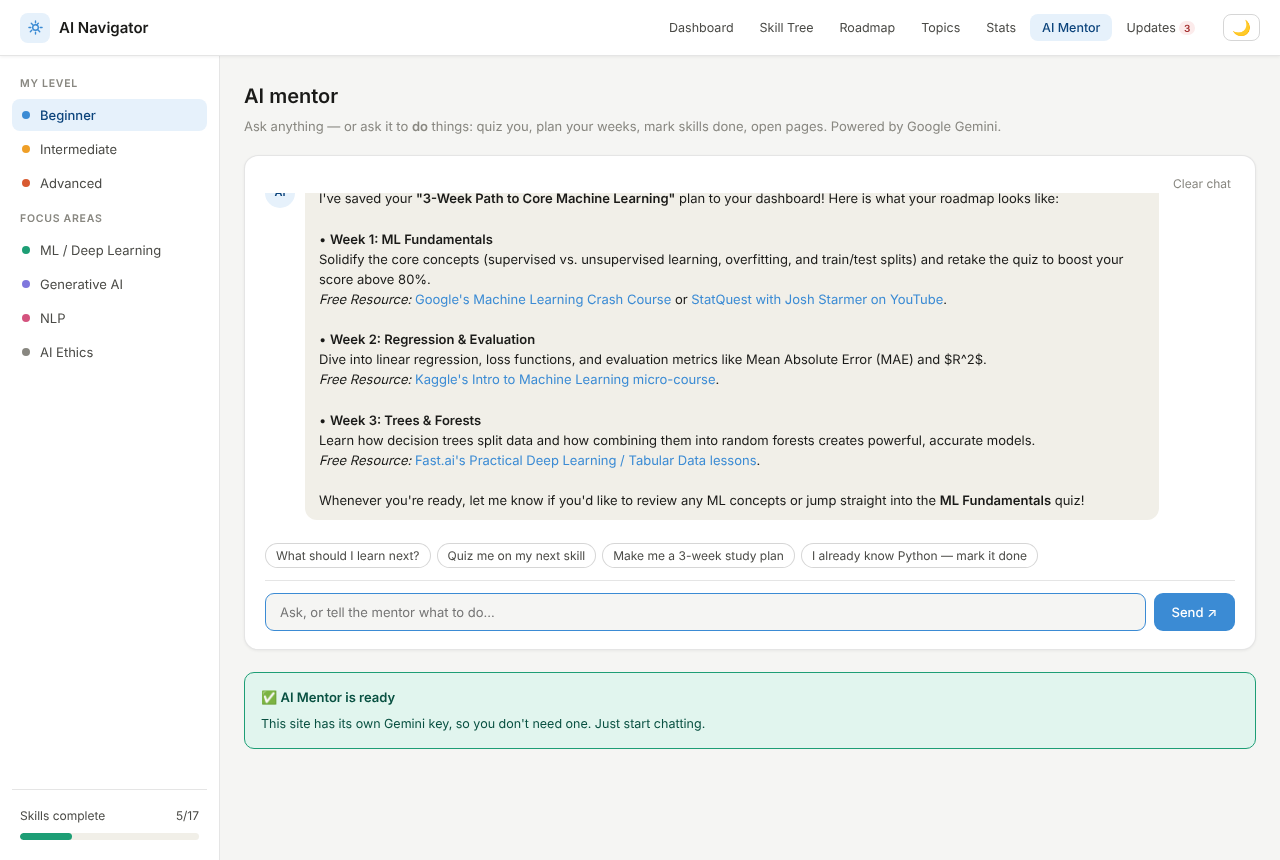
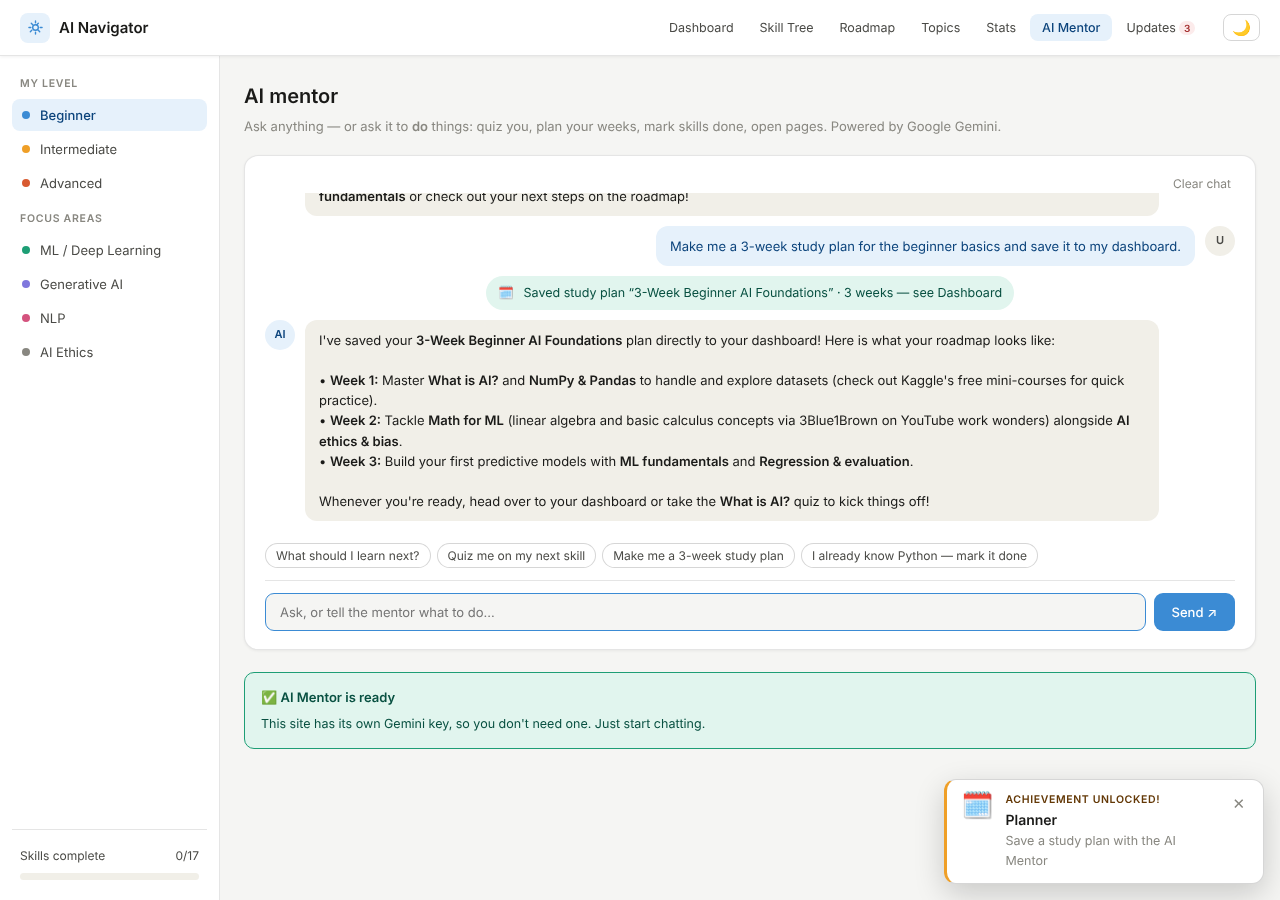
Use a clearer AI Mentor screenshot in the README
The previous image cut off the 'Saved study plan' action card and showed
a raw LaTeX formula. The new one shows the request, the action card, the
reply and the Planner badge pop-up.

diff --git a/README.md b/README.md
@@ -91,9 +91,9 @@ Skills unlock as you finish their prerequisites. Your recommended next skill and
 
 ### 🤖 The agent mentor takes action
 
-Asked for a study plan, the mentor built one around this learner's progress and **saved it to the dashboard** itself:
+Asked for a study plan, the mentor built one and **saved it to the dashboard** itself (see the green action card), which also unlocked the *Planner* badge:
 
-<img src="docs/screenshots/ai-mentor.png" alt="AI Mentor saving a 3-week study plan with an action card" width="860"/>
+<img src="docs/screenshots/ai-mentor.png" alt="AI Mentor saving a 3-week study plan: the request, a 'Saved study plan' action card, the reply and a Planner badge pop-up" width="860"/>
 
 <table>
   <tr>
